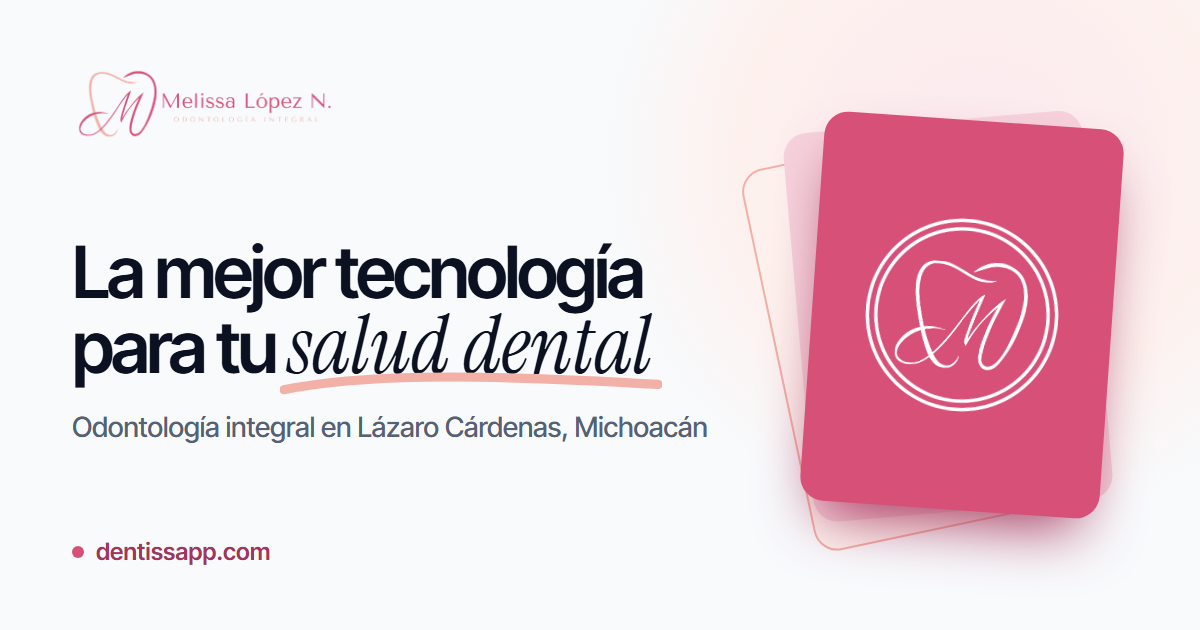
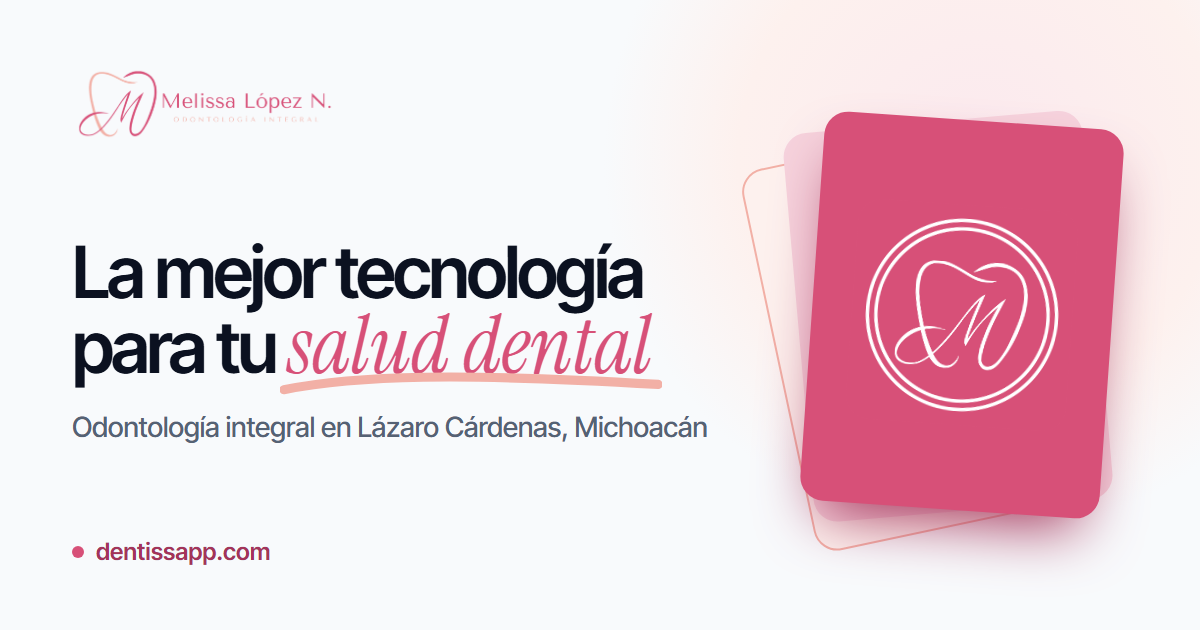
fix(026): paint the highlighted words of the share card in pink
"salud dental" takes the primary colour, as on the home, after the user's
review of the card.

Covers: CA19
Tasks: docs/specs/026-nueva-landing/tasks.md

Claude-Session: https://claude.ai/code/session_011ofGs7Sv4rYqdHPa45jJYV

Changed region(s): [[0.2467, 0.4825, 0.555, 0.6032]]

diff --git a/docs/design/system.md b/docs/design/system.md
@@ -336,7 +336,7 @@ inicio:
 - Fondo `canvas` con un halo `primary-soft` → `secondary-soft` arriba a la derecha.
 - Columna de texto de 640 px dentro de una zona segura de 64–72 px: logo horizontal de la clínica
   (80 px de alto), la frase principal en Inter Tight 600 de 72 px (interlineado 1.02, `-0.045em`)
-  con "salud dental" en Instrument Serif cursiva y el subrayado `secondary` del inicio, la línea
+  con "salud dental" en Instrument Serif cursiva `primary` y el subrayado `secondary`, como en el inicio, la línea
   "Odontología integral en <ciudad>" en `muted` de 28 px y, abajo, `dentissapp.com` en
   `primary-deep` con un punto `primary`.
 - A la derecha, el abanico de tarjetas de la bienvenida (radio `card`): `secondary-soft` con borde
